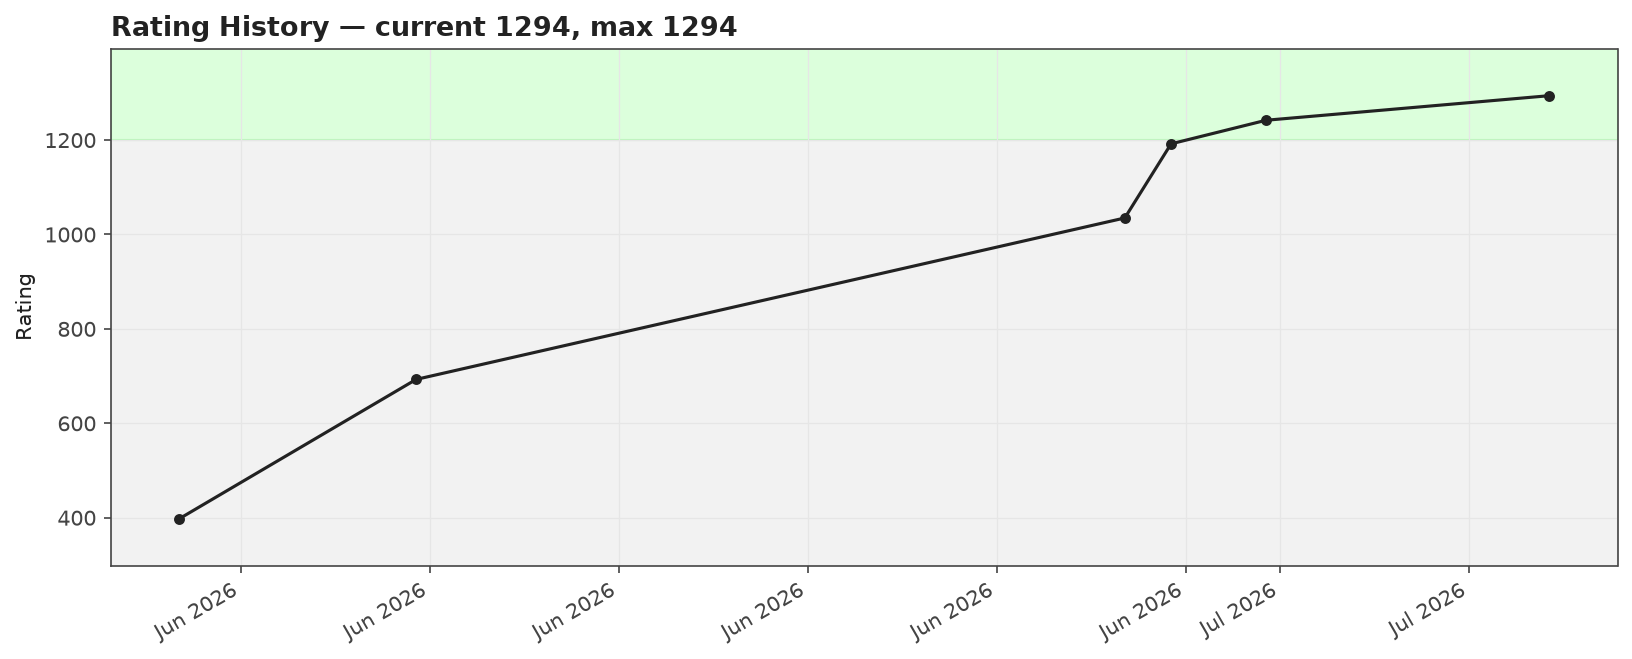
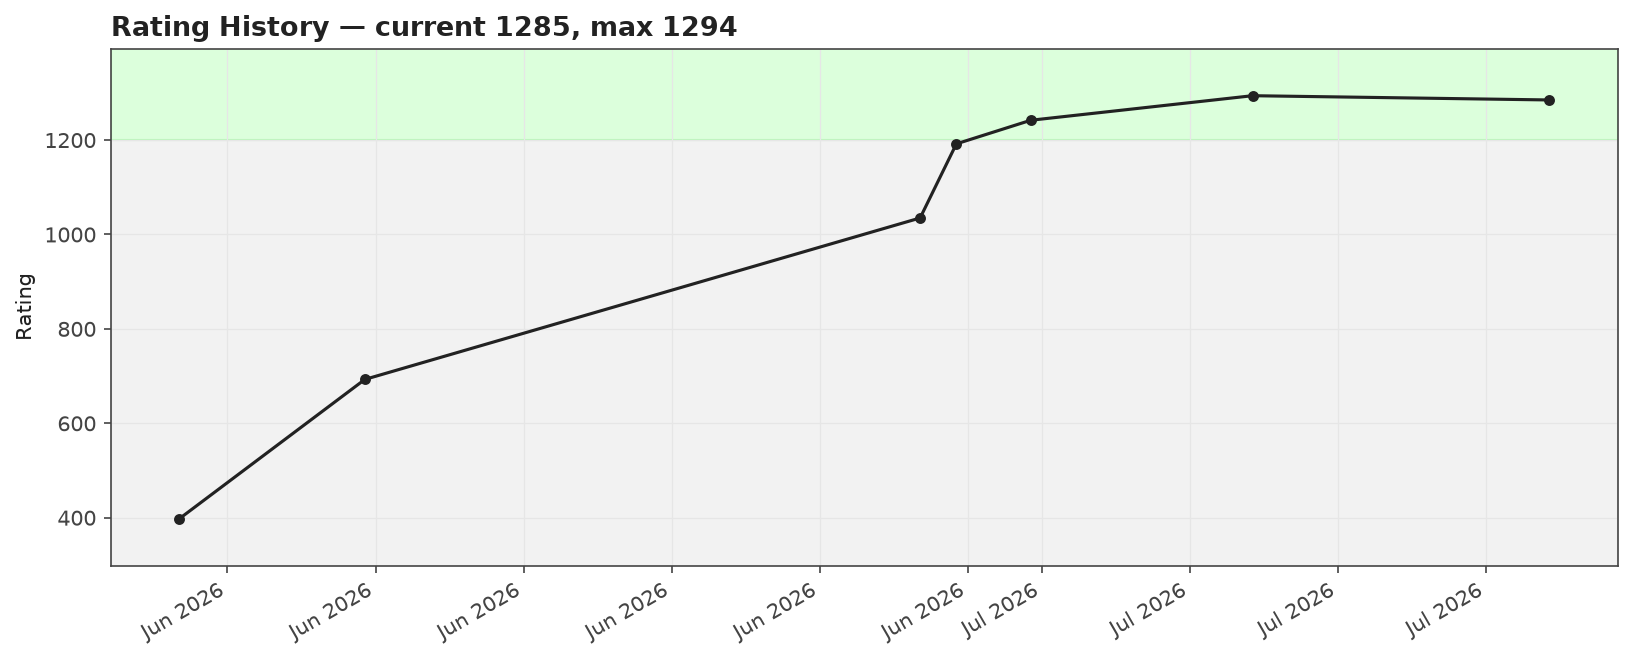
Sync: refresh analytics (rating/streak update, no new problems)

diff --git a/README.md b/README.md
@@ -5,7 +5,7 @@ Auto-generated archive of accepted Codeforces submissions for **[om_sharma_](htt
 - **Total solved:** 89
 - **With source attached:** 0 / 89
 - **Longest streak:** 15 days  |  **Current streak:** 0 days
-- **Contest rating:** 1294 (max 1294)
+- **Contest rating:** 1285 (max 1294)
 
 ## 📊 Analytics
 